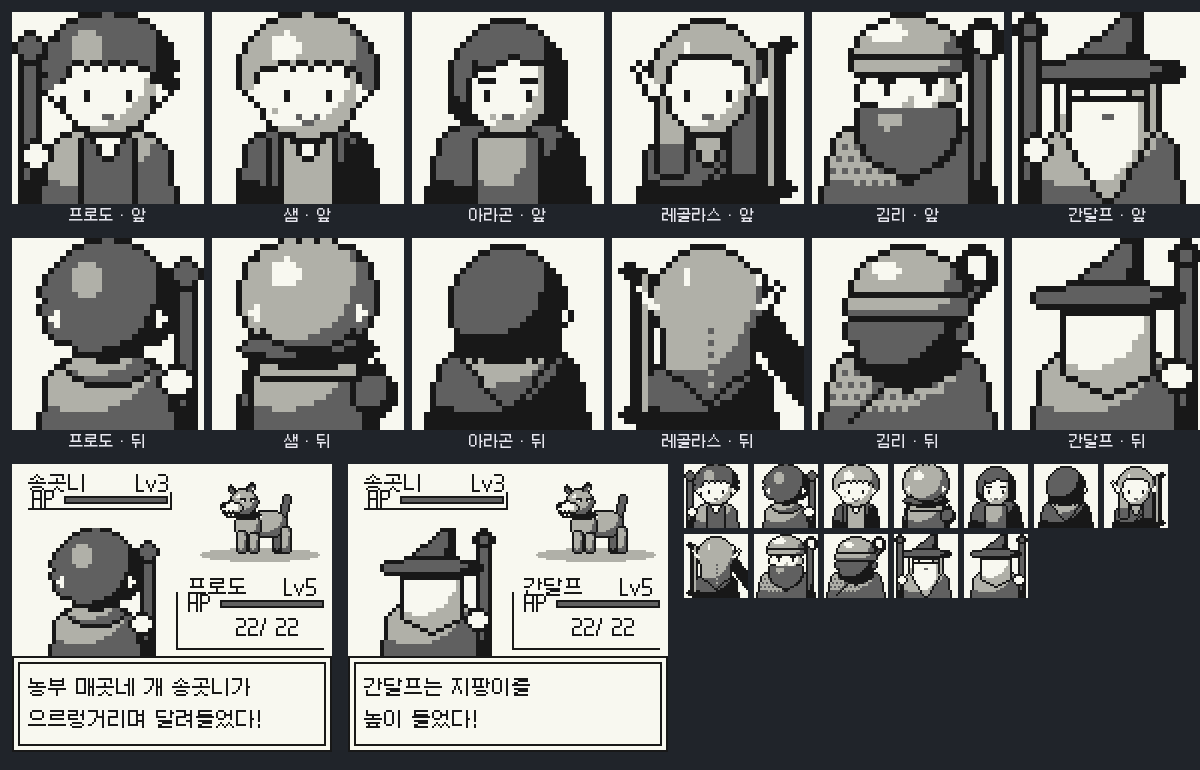
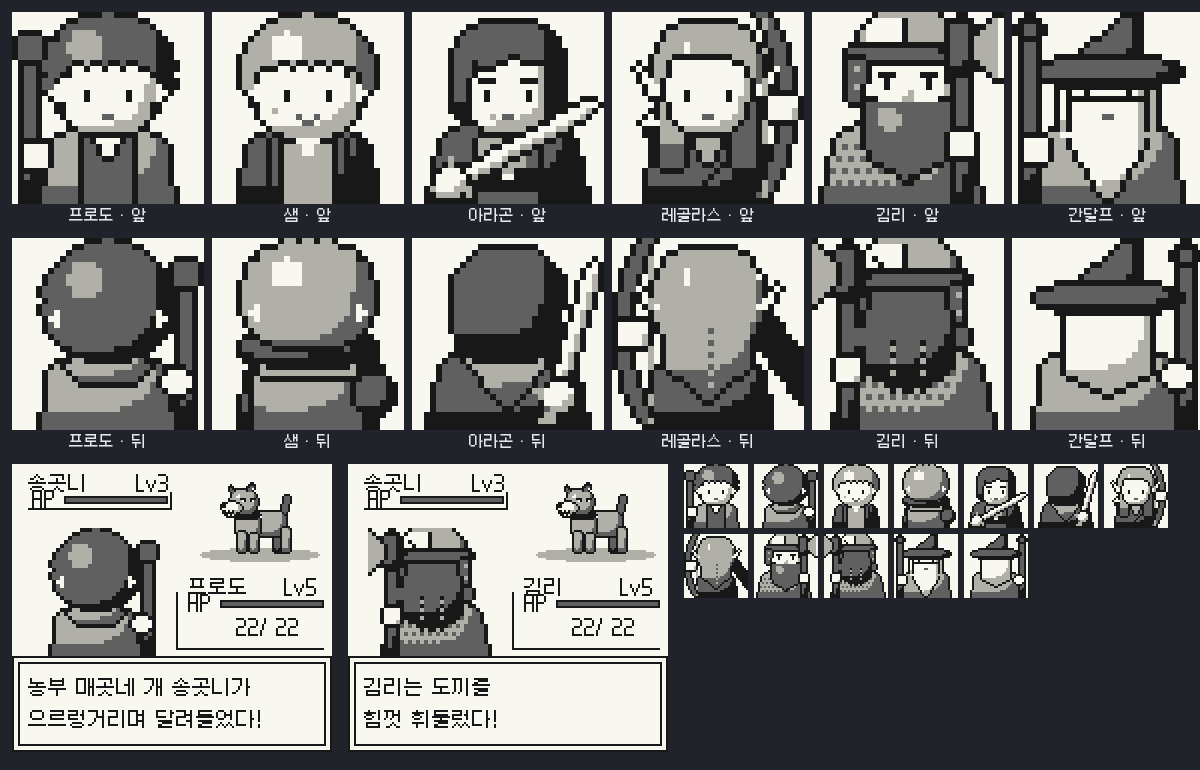
반지 원정: 도트판 각진 덩어리, 아라곤 장검·레골라스 큰 활·김리 외날 도끼와 볼가리개 투구
Claude-Session: https://claude.ai/code/session_01SP5jTWYuC4SCRJYicqB99F

diff --git a/ring/gb32.js b/ring/gb32.js
@@ -13,7 +13,7 @@
       const X = x + 0.5, Y = y + 0.5; if (!mask(X, Y)) continue;
       let t = tone;
       if (o.cx !== undefined) {
-        const d = Math.hypot((X - (o.cx - o.rx * 0.4)) / o.rx, (Y - (o.cy - o.ry * 0.45)) / o.ry);
+        const ax = Math.abs((X - (o.cx - o.rx * 0.4)) / o.rx), ay = Math.abs((Y - (o.cy - o.ry * 0.45)) / o.ry), d = (ax ** SQ + ay ** SQ) ** (1 / SQ);
         if (o.shade !== undefined && d > 0.95 + (o.at === undefined ? 0.42 : o.at) * 0.5) t = o.shade;
         else if (o.hi !== undefined && d < 0.5 + (o.hiAt === undefined ? -0.62 : o.hiAt) * 0.5) t = o.hi;
       }
@@ -21,7 +21,8 @@
     }
     return id;
   }
-  const E = (cx, cy, rx, ry) => (x, y) => ((x - cx) / rx) ** 2 + ((y - cy) / ry) ** 2 <= 1;
+  const SQ = 2.8; // 2=원, 클수록 네모 — 도트다운 각진 덩어리
+  const E = (cx, cy, rx, ry) => (x, y) => Math.abs((x - cx) / rx) ** SQ + Math.abs((y - cy) / ry) ** SQ <= 1;
   const OR = (...m) => (x, y) => m.some(f => f(x, y));
   const AND = (...m) => (x, y) => m.every(f => f(x, y));
   const R = (x0, y0, x1, y1) => (x, y) => x >= x0 && x < x1 && y >= y0 && y < y1;
@@ -66,10 +67,45 @@
   // 몸통(어깨 둥근 사다리꼴): 위 y0, 어깨 반폭 w0, 바닥 반폭 w1
   const body = (cx, y0, w0, w1) => (x, y) => {
     if (y < y0) return false;
-    const k = y - y0, hw = k < 3 ? w0 - (3 - k) * (3 - k) * 0.55 : w0 + (k - 3) * (w1 - w0) / 9;
+    const k = Math.floor(y - y0), hw = k === 0 ? w0 - 3 : k === 1 ? w0 - 1 : w0 + (k - 2) * (w1 - w0) / 10;
     return Math.abs(x - cx) <= hw;
   };
   const EYE = ['3', '3'];
+  // 칼: 세로로 세운 장검 (8칸 폭, 가운데 3|4)
+  function sword(s, x0, y0, len) {
+    const rows = ['...33...', '..3003..'];
+    for (let i = 0; i < len; i++) rows.push('..3013..');
+    rows.push('33333333', '31111113', '33333333', '..3223..', '..3223..', '..3223..', '..3113..', '...33...');
+    stamp(s, x0, y0, rows);
+  }
+  // 비스듬히 든 장검: 손잡이 끝(hx,hy) → 칼끝(tx,ty). 머리보다 먼저 그려 머리 뒤로 지나가게.
+  function swordDiag(s, hx, hy, tx, ty) {
+    const L = Math.hypot(tx - hx, ty - hy), ux = (tx - hx) / L, uy = (ty - hy) / L;
+    const seg = (a, b, w) => (x, y) => { const t = (x - hx) * ux + (y - hy) * uy, n = -(x - hx) * uy + (y - hy) * ux; return t >= a && t <= b && Math.abs(n) <= w; };
+    fill(s, seg(4, 6, 1.1), 2, {});                                                             // 손잡이
+    fill(s, (x, y) => { const t = (x - hx) * ux + (y - hy) * uy, n = -(x - hx) * uy + (y - hy) * ux; return t >= 6 && t <= L && Math.abs(n) <= 1.15 - Math.max(0, t - L + 2.5) * 0.45; }, 0, {}); // 칼날
+    for (let y = 0; y < s.h; y++) for (let x = 0; x < s.w; x++) { const X = x + 0.5, Y = y + 0.5, t = (X - hx) * ux + (Y - hy) * uy, n = -(X - hx) * uy + (Y - hy) * ux;
+      if (t > 7 && t < L - 1 && n > 0.3 && n <= 1.15 && s.p[y * s.w + x] === 0) s.p[y * s.w + x] = 1; }              // 날 한쪽 그늘
+    fill(s, seg(6, 7.4, 3.6), 1, {});                                                           // 코등이
+    fill(s, seg(2, 4, 1.4), 1, {});                                                             // 칼자루 끝
+  }
+  // 활: 크게 휜 활대 (dir=+1 이면 오른쪽으로 불룩). 시위는 finish 뒤에 그린다.
+  function bow(s, x0, dir, y0, y1) {
+    const mid = (y0 + y1) / 2, half = (y1 - y0) / 2;
+    fill(s, (x, y) => y >= y0 && y <= y1 && Math.abs(x - (x0 + dir * 4.2 * (1 - ((y - mid) / half) ** 2))) <= 1.05, 2, {});
+  }
+  const bowString = (s, x0, y0, y1) => { for (let y = y0 + 1; y < y1; y++) if (s.p[y * s.w + x0] !== 3) px(s, x0, y, 1); };
+  // 양날 도끼: 자루 가운데 hx, 도끼머리 가운데 높이 hy
+  const o_dir = hx => hx > 16 ? 1 : -1; // 날은 바깥쪽으로
+  function axe(s, hx, hy, top, bottom) {
+    fill(s, R(hx - 1, top, hx + 1, bottom), 2, { cx: hx, cy: 20, rx: 1, ry: 12, shade: 3, at: 0.6 });
+    fill(s, R(hx - 2, hy - 4, hx + 2, hy + 4), 2, { cx: hx, cy: hy, rx: 2, ry: 4, shade: 3, at: 0.4 });         // 쇠 고리
+    const dir = o_dir(hx), e0 = dir > 0 ? hx + 2 : hx - 2;
+    const blade = (x, y) => { const k = dir > 0 ? x - e0 : e0 - x; return k >= 0 && k < 6 && Math.abs(y - hy) <= 1.6 + k * 0.85; };
+    const id = fill(s, blade, 1, {});
+    for (let y = 0; y < s.h; y++) for (let x = 0; x < s.w; x++) if (s.id[y * s.w + x] === id && (dir > 0 ? x >= e0 + 4 : x <= e0 - 5)) s.p[y * s.w + x] = 0; // 날 끝 번쩍
+    stamp(s, dir > 0 ? hx - 4 : hx + 2, hy - 1, ['33', '33']);                                                          // 뒤쪽 뿔
+  }
 
   // ───────── 프로도 ─────────
   function frodoF() {
@@ -128,18 +164,21 @@
     return finish(s);
   }
 
-  // ───────── 아라곤 ─────────
+  // ───────── 아라곤 (검사) ─────────
   function aragornF() {
     const s = mk();
     fill(s, body(16, 19, 11, 13), 2, { cx: 16, cy: 22, rx: 12, ry: 10, shade: 3 });                 // 망토
     fill(s, (x, y) => y >= 21 && Math.abs(x - 16) <= 4.5, 1, { cx: 16, cy: 25, rx: 4, ry: 6, shade: 2 }); // 가죽 웃옷
-    // 어깨까지 오는 검은 머리
+    fill(s, R(11, 27, 22, 29), 3, {});                                                                  // 칼띠
+    stamp(s, 15, 27, ['00']);
     const hid = fill(s, OR(E(16, 10.5, 9, 8.6), AND(R(7, 10, 25, 19), (x, y) => (Math.abs(x - 16) > 5 || y < 12) && y < 18.5 - (Math.floor(x) % 2))), 2, { cx: 16, cy: 10, rx: 9, ry: 9, shade: 3, at: 0.2 });
     fill(s, (x, y) => E(16, 13, 6.4, 7.4)(x, y) && y > 7.6 + (x < 16 ? 1.4 : 0.4) + Math.abs(x - 16) * 0.2, 0, { cx: 16, cy: 13, rx: 6.4, ry: 7.4, shade: 1, at: 0.6 });
     stamp(s, 12, 13, EYE); stamp(s, 19, 13, EYE);
     stamp(s, 11, 11, ['333']); stamp(s, 18, 11, ['333']);                                              // 굵은 눈썹
     stamp(s, 13, 17, ['1.11.1', '.1111.']); stamp(s, 15, 17, ['22']);                                // 수염 그늘 + 입
-    stamp(s, 10, 8, ['3', '3', '3']);                                                                  // 흘러내린 머리칼
+    stamp(s, 10, 8, ['3', '3', '3']);
+    swordDiag(s, 2, 31, 31.5, 15);                                                                      // 가슴 앞으로 비껴 든 장검
+    fill(s, E(6.5, 28.5, 2.6, 2.2), 0, { cx: 6.5, cy: 28, rx: 2.6, ry: 2.2, shade: 1, at: 0.6 });
     return finish(s);
   }
   function aragornB() {
@@ -147,72 +186,80 @@
     fill(s, body(16, 19, 11, 13), 2, { cx: 16, cy: 22, rx: 12, ry: 10, shade: 3 });
     fill(s, (x, y) => y >= 19 && y < 28 && Math.abs(x - 16) <= 8 - (y - 19) * 0.8, 1, { cx: 16, cy: 21, rx: 8, ry: 5, shade: 2 }); // 두건
     fill(s, OR(E(16, 11, 9, 9), AND(R(7, 11, 25, 21), (x, y) => Math.abs(x - 16) <= 9 - (y - 11) * 0.12 && y < 20.5 - (Math.floor(x) % 2))), 2, { cx: 16, cy: 11, rx: 9, ry: 9, shade: 3, at: 0.2 });
-    stamp(s, 25, 12, ['0', '0']);                                                                      // 귀끝
+    stamp(s, 25, 12, ['0', '0']);
+    swordDiag(s, 22, 33, 31, 3);                                                                        // 앞으로 치켜든 장검
+    fill(s, E(24.5, 26.5, 2.6, 2.2), 0, { cx: 24.5, cy: 26, rx: 2.6, ry: 2.2, shade: 1, at: 0.6 });
     return finish(s);
   }
 
-  // ───────── 레골라스 ─────────
-  const BOW = ['.33', '3..', '3..', '3..', '3..', '3..', '3..', '3..', '3..', '3..', '3..', '3..', '3..', '3..', '3..', '3..', '3..', '3..', '3..', '3..', '3..', '3..', '3..', '3..', '.33'];
+  // ───────── 레골라스 (활) ─────────
   function legolasF() {
     const s = mk();
-    fill(s, body(16, 20, 9.5, 11), 2, { cx: 16, cy: 22, rx: 11, ry: 10, shade: 3 });                // 초록 옷
-    fill(s, (x, y) => y >= 20 && y < 25 && Math.abs(x - 16) <= 3.2 - (y - 20) * 0.6, 1);              // 깃
-    for (let i = 0; i < 12; i++) px(s, 23 - i, 20 + i, 3);                                             // 화살통 끈
-    // 긴 금발
-    fill(s, OR(E(16, 10.5, 8.8, 8.6), R(8, 10, 12, 27), R(20, 10, 24, 27)), 1, { cx: 16, cy: 12, rx: 9, ry: 12, shade: 2, at: 0.75, hi: 0, hiAt: -0.8 });
+    fill(s, body(16, 20, 9, 10.5), 2, { cx: 16, cy: 22, rx: 11, ry: 10, shade: 3 });                // 초록 옷
+    fill(s, (x, y) => y >= 20 && y < 25 && Math.abs(x - 16) <= 3.2 - (y - 20) * 0.6, 1);
+    for (let i = 0; i < 11; i++) px(s, 22 - i, 21 + i, 3);                                             // 화살통 끈
+    stamp(s, 5, 17, ['.0.0', '0000', '.33.', '.33.']);                                                 // 어깨 너머 화살깃
+    fill(s, OR(E(16, 10.5, 8.8, 8.6), R(8, 10, 12, 26), R(20, 10, 24, 26)), 1, { cx: 16, cy: 12, rx: 9, ry: 12, shade: 2, at: 0.75, hi: 0, hiAt: -0.8 });
     fill(s, (x, y) => E(16, 13, 6.6, 7.2)(x, y) && y > 7.4 + Math.abs(x - 15) * 0.22, 0, { cx: 16, cy: 13, rx: 6.6, ry: 7.2, shade: 1, at: 0.7 });
-    // 뾰족한 요정 귀
     stamp(s, 4, 9, ['0...', '.0..', '.00.', '..00', '..00']); stamp(s, 24, 9, flip(['0...', '.0..', '.00.', '..00', '..00']));
     stamp(s, 12, 13, EYE); stamp(s, 19, 13, EYE);
     stamp(s, 15, 17, ['22']);
-    // 활
-    stamp(s, 27, 5, BOW); for (let y = 6; y < 29; y++) px(s, 26, y, 1);
-    return finish(s);
+    // 왼손(화면 오른쪽)에 든 큰 활
+    bow(s, 25, 1, 0, 31);
+    fill(s, E(28.5, 16, 2.4, 2.4), 0, { cx: 28.5, cy: 16, rx: 2.4, ry: 2.4, shade: 1, at: 0.6 });
+    finish(s); bowString(s, 25, 0, 31);
+    return s;
   }
   function legolasB() {
     const s = mk();
-    stamp(s, 2, 5, flip(BOW)); for (let y = 6; y < 29; y++) px(s, 5, y, 1);
-    fill(s, body(16, 20, 9.5, 11), 2, { cx: 16, cy: 22, rx: 11, ry: 10, shade: 3 });
+    fill(s, body(16, 20, 9, 10.5), 2, { cx: 16, cy: 22, rx: 11, ry: 10, shade: 3 });
     // 화살통 (오른 어깨 → 왼 허리) + 깃
-    fill(s, (x, y) => { const u = (x - 23) * 0.6 + (y - 12) * 0.8, v = (x - 23) * 0.8 - (y - 12) * 0.6; return u > 0 && u < 22 && Math.abs(v + 0) < 2.2; }, 3, {});
+    fill(s, (x, y) => { const u = (x - 23) * 0.6 + (y - 12) * 0.8, v = (x - 23) * 0.8 - (y - 12) * 0.6; return u > 0 && u < 22 && Math.abs(v) < 2.2; }, 3, {});
     stamp(s, 21, 6, ['.0.0', '0000', '.00.']);
     fill(s, OR(E(16, 10.5, 8.8, 8.6), (x, y) => y > 10 && y < 27 - Math.abs(x - 16) * 0.8 && Math.abs(x - 16) < 7.5), 1, { cx: 16, cy: 12, rx: 9, ry: 12, shade: 2, at: 0.7, hi: 0, hiAt: -0.8 });
     for (let y = 14; y < 25; y++) px(s, 16, y, y % 2 ? 2 : 1);                                         // 땋은 가닥
     stamp(s, 4, 8, ['0...', '.0..', '.00.', '..00']); stamp(s, 24, 8, flip(['0...', '.0..', '.00.', '..00']));
-    return finish(s);
+    // 왼손(화면 왼쪽)에 든 큰 활
+    bow(s, 6, -1, 0, 31);
+    fill(s, E(3.5, 16, 2.4, 2.4), 0, { cx: 3.5, cy: 16, rx: 2.4, ry: 2.4, shade: 1, at: 0.6 });
+    finish(s); bowString(s, 6, 0, 31);
+    return s;
   }
 
-  // ───────── 김리 ─────────
-  const AXE = ['.333.', '30003', '30003', '30003', '.3003', '..33.'];
+  // ───────── 김리 (도끼, 볼가리개 투구) ─────────
+  function dwarfHelm(s, back) {
+    fill(s, (x, y) => E(16, 8, 8.6, 8)(x, y) && y < 7 && Math.abs(x - 16) < 9.5 - Math.max(0, 3 - y) * 1.3, 1, { cx: 16, cy: 6, rx: 9, ry: 6, shade: 2, hi: 0, hiAt: -0.2 }); // 둥근 투구
+    fill(s, R(6, 6, 26, 8), 2, { cx: 16, cy: 7, rx: 10, ry: 2, shade: 3, at: 0.8 });                       // 테
+    fill(s, (x, y) => y >= 8 && y < 15 && ((x >= 6.5 && x < 9 - (y > 12 ? 1 : 0)) || (x >= 23 + (y > 12 ? 1 : 0) && x < 25.5)), 2, { cx: 16, cy: 12, rx: 10, ry: 5, shade: 3, at: 0.8 }); // 볼가리개
+    stamp(s, 15, 1, ['3', '3', '3', '3', '3']);                                                         // 가운데 솔기
+    for (const y of [9, 12]) { px(s, 7, y, 1); px(s, 24, y, 1); }                                          // 징
+    if (back) stamp(s, 10, 3, ['3......', '.3.....', '..3....']);
+  }
   function gimliF() {
     const s = mk();
-    fill(s, body(16, 19, 12, 14), 1, { cx: 16, cy: 22, rx: 13, ry: 10, shade: 2 });                 // 사슬갑옷
-    for (let y = 22; y < 32; y += 2) for (let x = 3 + (y % 4 ? 0 : 1); x < 30; x += 2) if (s.p[y * 32 + x] >= 0) px(s, x, y, 2);
-    fill(s, E(16, 13.5, 7.6, 6.4), 0, { cx: 16, cy: 13.5, rx: 7.6, ry: 6.4, shade: 1, at: 0.6 });    // 얼굴
-    // 큰 수염 (가슴까지)
-    fill(s, (x, y) => y > 15.5 + Math.max(0, 3 - Math.abs(x - 16)) * 0.4 && y < 28 - Math.abs(x - 16) * 0.6 && Math.abs(x - 16) < 8 - Math.max(0, y - 21) * 0.5, 2, { cx: 16, cy: 21, rx: 8, ry: 7, shade: 3, at: 0.9, hi: 1, hiAt: -0.5 });
-    stamp(s, 11, 16, ['2222..2222'.replace(/\./g, '2')]);                                          // 콧수염
-    stamp(s, 15, 14, ['01', '11']);                                                                   // 큰 코
-    stamp(s, 12, 12, EYE); stamp(s, 19, 12, EYE);
-    stamp(s, 11, 11, ['333']); stamp(s, 18, 11, ['333']);
-    // 투구
-    fill(s, (x, y) => E(16, 9, 9.2, 8)(x, y) && y < 9, 1, { cx: 16, cy: 6, rx: 9, ry: 6, shade: 2, hi: 0, hiAt: -0.3 });
-    fill(s, R(7, 8, 25, 10), 1, { cx: 16, cy: 9, rx: 10, ry: 2, shade: 2 });
-    // 도끼
-    fill(s, R(27, 6, 29, 32), 2, { cx: 28, cy: 18, rx: 2, ry: 14, shade: 3 }); stamp(s, 26, 2, AXE);
+    fill(s, body(15, 19, 11, 13), 1, { cx: 15, cy: 22, rx: 12, ry: 10, shade: 2 });                // 사슬갑옷
+    for (let y = 22; y < 32; y += 2) for (let x = 3 + (y % 4 ? 0 : 1); x < 29; x += 2) if (s.p[y * 32 + x] >= 0) px(s, x, y, 2);
+    fill(s, E(16, 12, 7.4, 6.2), 0, { cx: 16, cy: 12, rx: 7.4, ry: 6.2, shade: 1, at: 0.6 });
+    fill(s, (x, y) => y > 14.5 + Math.max(0, 3 - Math.abs(x - 16)) * 0.4 && y < 28 - Math.abs(x - 16) * 0.6 && Math.abs(x - 16) < 7.5 - Math.max(0, y - 21) * 0.5, 2, { cx: 16, cy: 21, rx: 8, ry: 7, shade: 3, at: 0.9, hi: 1, hiAt: -0.5 });
+    stamp(s, 11, 15, ['2222222222']);                                                                  // 콧수염
+    stamp(s, 15, 13, ['01', '11']);                                                                   // 큰 코
+    stamp(s, 12, 11, EYE); stamp(s, 19, 11, EYE);
+    stamp(s, 11, 10, ['333']); stamp(s, 18, 10, ['333']);
+    dwarfHelm(s, false);
+    axe(s, 25, 6, 1, 32);
+    fill(s, E(25, 22, 2.4, 2.2), 0, { cx: 26, cy: 22, rx: 2.4, ry: 2.2, shade: 1, at: 0.6 });
     return finish(s);
   }
   function gimliB() {
     const s = mk();
-    fill(s, body(16, 19, 12, 14), 1, { cx: 16, cy: 22, rx: 13, ry: 10, shade: 2 });
-    for (let y = 22; y < 32; y += 2) for (let x = 3 + (y % 4 ? 0 : 1); x < 30; x += 2) if (s.p[y * 32 + x] >= 0) px(s, x, y, 2);
-    // 등에 비스듬히 멘 도끼
-    for (let i = 0; i < 24; i++) { px(s, 5 + i, 30 - i, 2); px(s, 6 + i, 30 - i, 3); }
-    stamp(s, 25, 2, AXE);
-    stamp(s, 6, 14, ['22', '22', '22']); stamp(s, 24, 14, ['22', '22', '22']);                         // 수염 끝
-    fill(s, OR(E(16, 12, 9, 8.4), (x, y) => y > 12 && y < 25 - Math.abs(x - 16) * 0.4 && Math.abs(x - 16) < 8), 2, { cx: 16, cy: 13, rx: 9, ry: 10, shade: 3, at: 0.6 });
-    fill(s, (x, y) => E(16, 11, 9.6, 9)(x, y) && y < 11, 1, { cx: 16, cy: 8, rx: 9, ry: 6, shade: 2, hi: 0, hiAt: -0.5 });
-    fill(s, R(6, 10, 26, 13), 1, { cx: 16, cy: 11, rx: 10, ry: 2, shade: 2 });
+    fill(s, body(17, 19, 11, 13), 1, { cx: 17, cy: 22, rx: 12, ry: 10, shade: 2 });
+    for (let y = 22; y < 32; y += 2) for (let x = 5 + (y % 4 ? 0 : 1); x < 31; x += 2) if (s.p[y * 32 + x] >= 0) px(s, x, y, 2);
+    stamp(s, 6, 15, ['22', '22', '22']); stamp(s, 24, 15, ['22', '22', '22']);                         // 수염 끝
+    fill(s, OR(E(16, 12, 8.6, 8.4), (x, y) => y > 12 && y < 25 - Math.abs(x - 16) * 0.4 && Math.abs(x - 16) < 7.5), 2, { cx: 16, cy: 13, rx: 9, ry: 10, shade: 3, at: 0.6 });
+    for (const x of [13, 18]) for (let y = 17; y < 26; y++) px(s, x, y, y % 2 ? 3 : 1);                 // 땋은 머리
+    dwarfHelm(s, true);
+    axe(s, 6, 6, 1, 32);
+    fill(s, E(6, 22, 2.4, 2.2), 0, { cx: 6, cy: 22, rx: 2.4, ry: 2.2, shade: 1, at: 0.6 });
     return finish(s);
   }
 

diff --git a/ring/_gb32.html b/ring/_gb32.html
@@ -31,7 +31,7 @@ canvas{image-rendering:pixelated;display:block;margin:0 auto;background:#f8f8f0}
     box(c,0,96,160,48);text(c,msg1,8,106);text(c,msg2,8,122);
   }
   battle('bt', A.heroes[0].back(), '프로도','농부 매곳네 개 송곳니가','으르렁거리며 달려들었다!');
-  battle('bt2', A.heroes[5].back(), '간달프','간달프는 지팡이를','높이 들었다!');
+  battle('bt2', A.heroes[4].back(), '김리','김리는 도끼를','힘껏 휘둘렀다!');
   const sm=document.getElementById('sm');
   for (const h of A.heroes) for (const v of ['front','back']) { const k=A.toCanvas(h[v](),2); k.style.margin='0'; sm.appendChild(k); }
 })();
